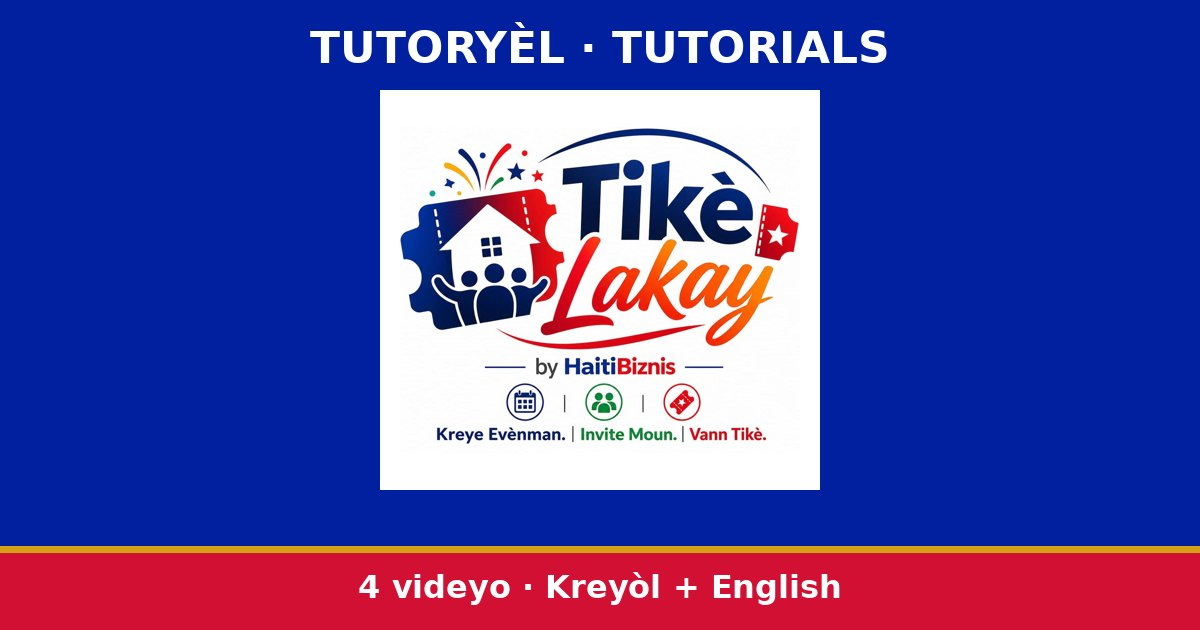
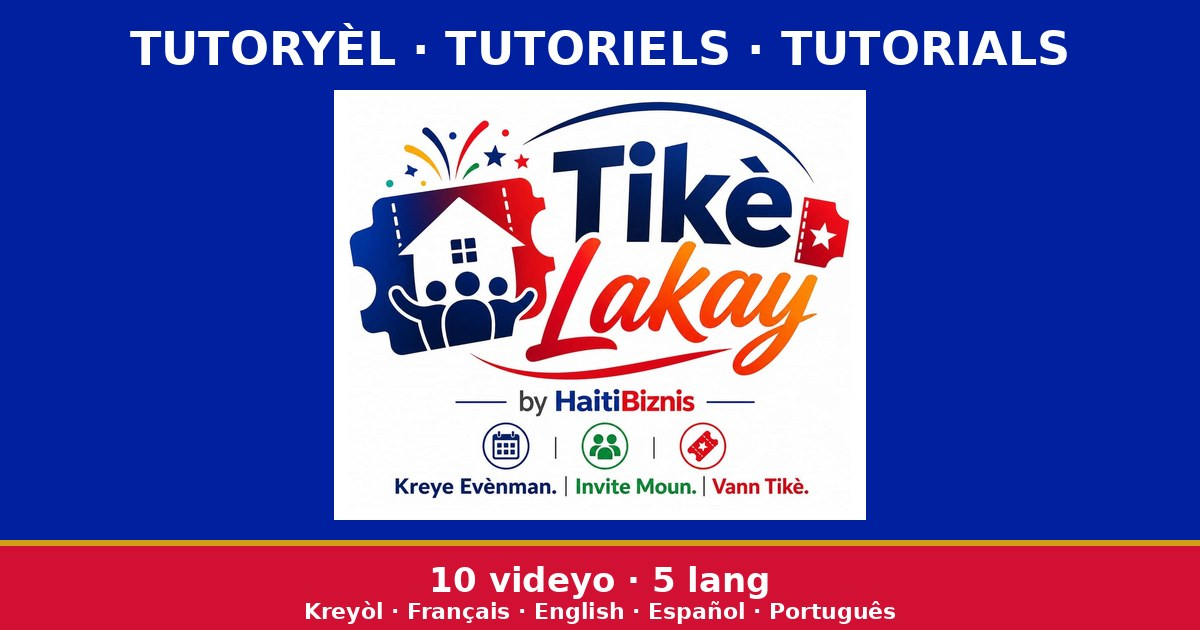
Tutorials: share preview shows 10 videos in 5 languages (was "4 videyo, Kreyol + English")

Changed region(s): [[0.0, 0.0302, 1.0, 0.9952]]

diff --git a/tutorials/index.html b/tutorials/index.html
@@ -3,9 +3,9 @@
 <title>Tikè Lakay — Tutoryèl · Tutoriels · Tutorials</title><meta name="description" content="Aprann Tikè Lakay an 5 lang: Kreyòl, Français, English, Español, Português. Kreye evènman, vann tikè, QR, pòt la, Ajan LajanMaker.">
 <meta property="og:type" content="website"><meta property="og:site_name" content="Tikè Lakay">
 <meta property="og:title" content="Tikè Lakay — Tutoryèl · Tutoriels · Tutorials"><meta property="og:description" content="Aprann Tikè Lakay an 5 lang: Kreyòl, Français, English, Español, Português. Kreye evènman, vann tikè, QR, pòt la, Ajan LajanMaker.">
-<meta property="og:url" content="https://tikelakay.com/tutorials/"><meta property="og:image" content="https://tikelakay.com/tutorials/og.jpg"><meta property="og:image:secure_url" content="https://tikelakay.com/tutorials/og.jpg">
+<meta property="og:url" content="https://tikelakay.com/tutorials/"><meta property="og:image" content="https://tikelakay.com/tutorials/og.jpg?v=2"><meta property="og:image:secure_url" content="https://tikelakay.com/tutorials/og.jpg?v=2">
 <meta property="og:image:type" content="image/jpeg"><meta property="og:image:width" content="1200"><meta property="og:image:height" content="630">
-<meta name="twitter:card" content="summary_large_image"><meta name="twitter:image" content="https://tikelakay.com/tutorials/og.jpg">
+<meta name="twitter:card" content="summary_large_image"><meta name="twitter:image" content="https://tikelakay.com/tutorials/og.jpg?v=2">
 <link rel="icon" href="logo.jpg"><meta name="theme-color" content="#0B1340">
 <style>
 :root{--p:#00209F;--a:#D21034;--bg:#0B1340;--card:#14205E;--mut:#C8D1F5}
